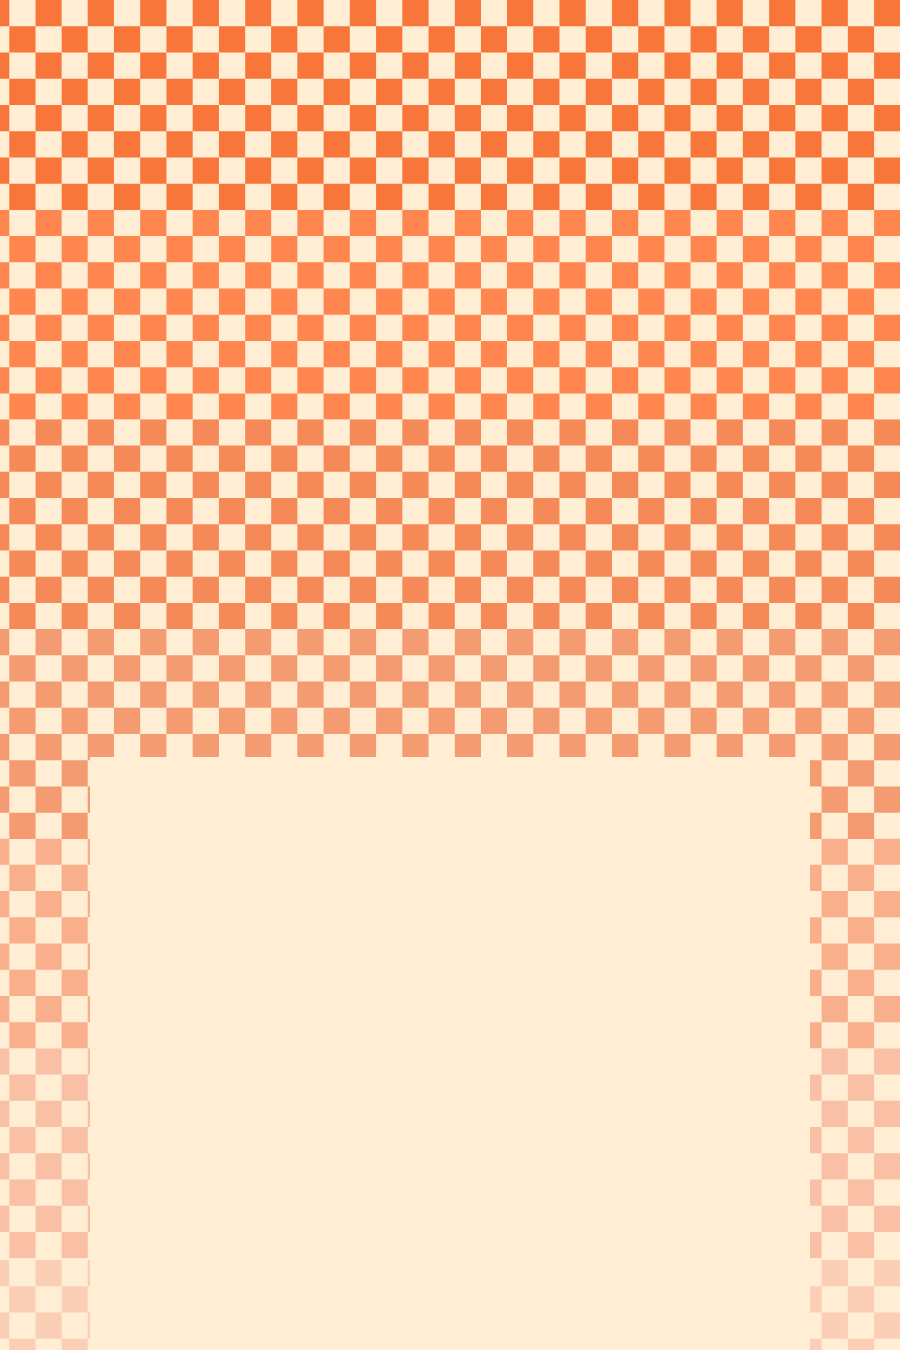
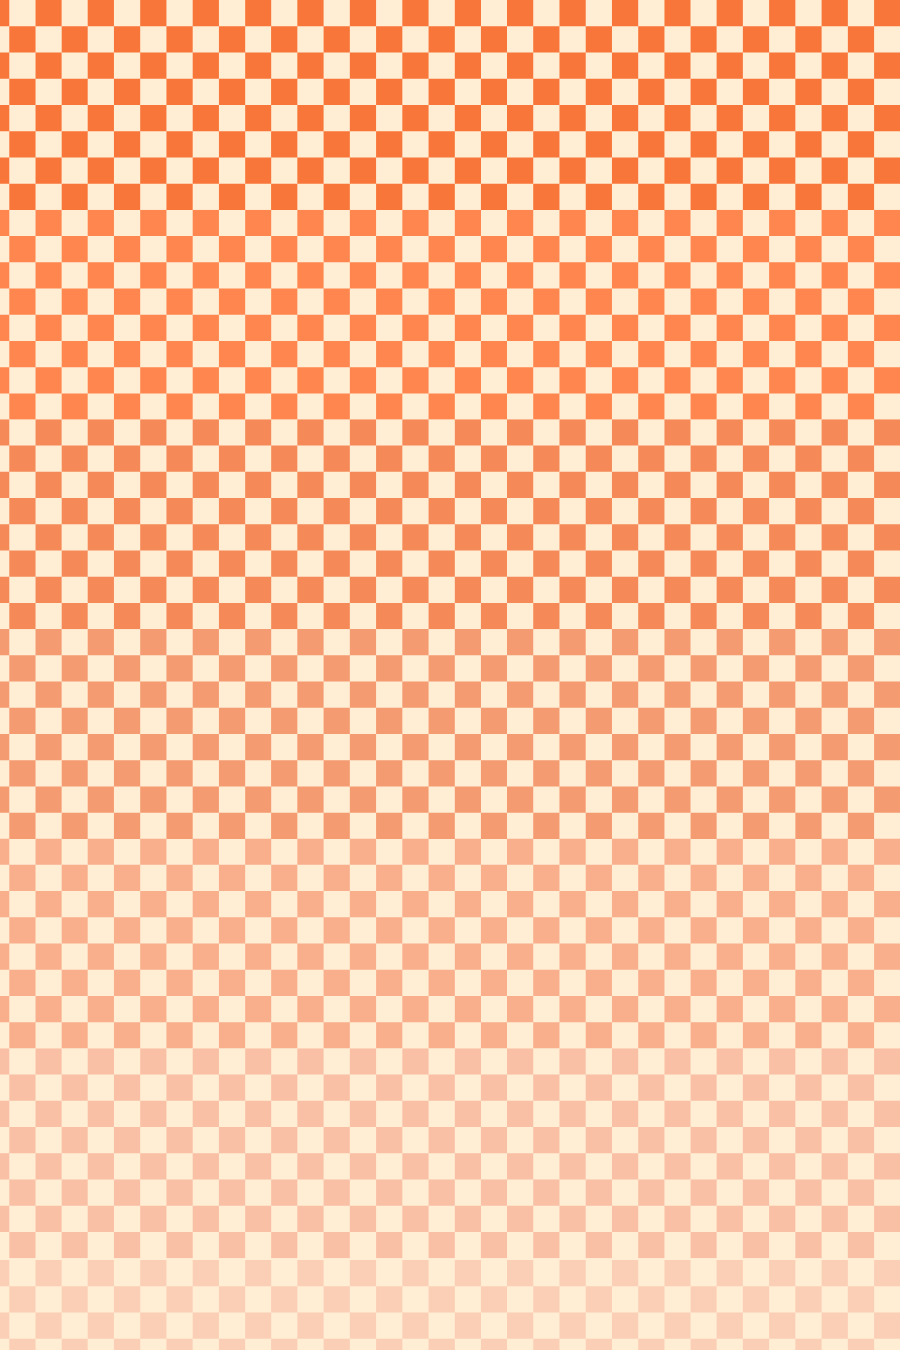
team card alignment fixed

Changed region(s): [[0.0933, 0.56, 0.9022, 1.0]]

diff --git a/src/components/about-us/person.tsx b/src/components/about-us/person.tsx
@@ -10,23 +10,25 @@ function Person({ name, position, email, image }: PersonProps) {
     //
     //rounded-full outline-[7px] outline-[#38bdf8]
     <div
-      className="m-4 p-4 w-[200px] drop-shadow-xl/50
+      className="m-4 px-4 pt-4 w-[200px] drop-shadow-xl/50
                 rounded-md bg-[url(images/tabs-card.png)] 
-                bg-cover bg-no-repeat opacity-100"
+                bg-cover bg-no-repeat opacity-100 flex flex-col"
     >
       <img
         src={image}
         alt={`Photo of ${name}`}
-        className="h-[160px] mb-[1rem] text-center flex justify-self-center"
+        className="h-[160px] text-center flex justify-self-center"
       />
-      <p className="text-[16px] poppins person-name font-bold">{name}</p>
-      <p className="text-[15px] poppins person-position px-2">{position}</p>
-      <a
-        className="text-[15px] poppins font-bold text-[#d97706]"
-        href={`mailto:${email}`}
-      >
-        {email}
-      </a>
+      <div className="pt-4 min-h-[130px] bg-[#FFEDD4]">
+        <p className="text-[15px] poppins font-bold">{name}</p>
+        <p className="text-[13px] poppins px-2">{position}</p>
+        <a
+          className="text-[15px] poppins font-bold text-[#d97706]"
+          href={`mailto:${email}`}
+        >
+          {email}
+        </a>
+      </div>
     </div>
   );
 }

diff --git a/src/components/ui/tabs.tsx b/src/components/ui/tabs.tsx
@@ -40,9 +40,8 @@ function TabsTrigger({
     <TabsPrimitive.Trigger
       data-slot="tabs-trigger"
       className={cn(
-        `bg-[url(images/tab-standard.png)] bg-center
-      data-[state=active]:bg-[url(images/tab-active.png)]
-      hover:bg-[url(images/tab-standard.png)]
+        `bg-[#DC4D31] bg-center
+      data-[state=active]:bg-[#B1341D]
       outline outline-3 outline-[#7c2d12] rounded-t-md ml-[2px]
       focus-visible:border-ring focus-visible:ring-ring/50 focus-visible:outline-ring 
       dark:data-[state=active]:border-input dark:data-[state=active]:bg-input/30 text-foreground dark:text-muted-foreground
@@ -50,7 +49,7 @@ function TabsTrigger({
       text-sm font-medium whitespace-nowrap  
       focus-visible:outline-1 disabled:pointer-events-none disabled:opacity-50 data-[state=active]:shadow-sm
       [&_svg]:pointer-events-none [&_svg]:shrink-0 [&_svg:not([class*='size-'])]:size-4 
-      md:text-[22px] bebas font-bold passive-outline p-[10px] translate-y-[0px] cursor-pointer`,
+      md:text-[18px] poppins font-bold p-[10px] text-[#FFFBEE] hover:text-[#e7ee33] data-[state=active]:text-[#e7ee33] translate-y-[0px] cursor-pointer`,
         className
       )}
       {...props}

diff --git a/src/index.css b/src/index.css
@@ -188,23 +188,11 @@
   font-family: "Racing Sans One";
 }
 
-@media screen and (min-width: 768px) {
-  .slanted-text {
-    font-family: "Aileron-Slight-Slant", sans-serif;
-  }
-}
-
-@media screen and (min-width: 1280px) {
-  .slanted-text {
-    font-family: "Aileron-Heavy-Slant", sans-serif;
-  }
-}
-
 .navbar-passive-outline {
   color: #fffbee;
 }
 
-.navabar-passive-outline:hover {
+.navbar-passive-outline:hover {
   color: #e7ee33;
 }
 
